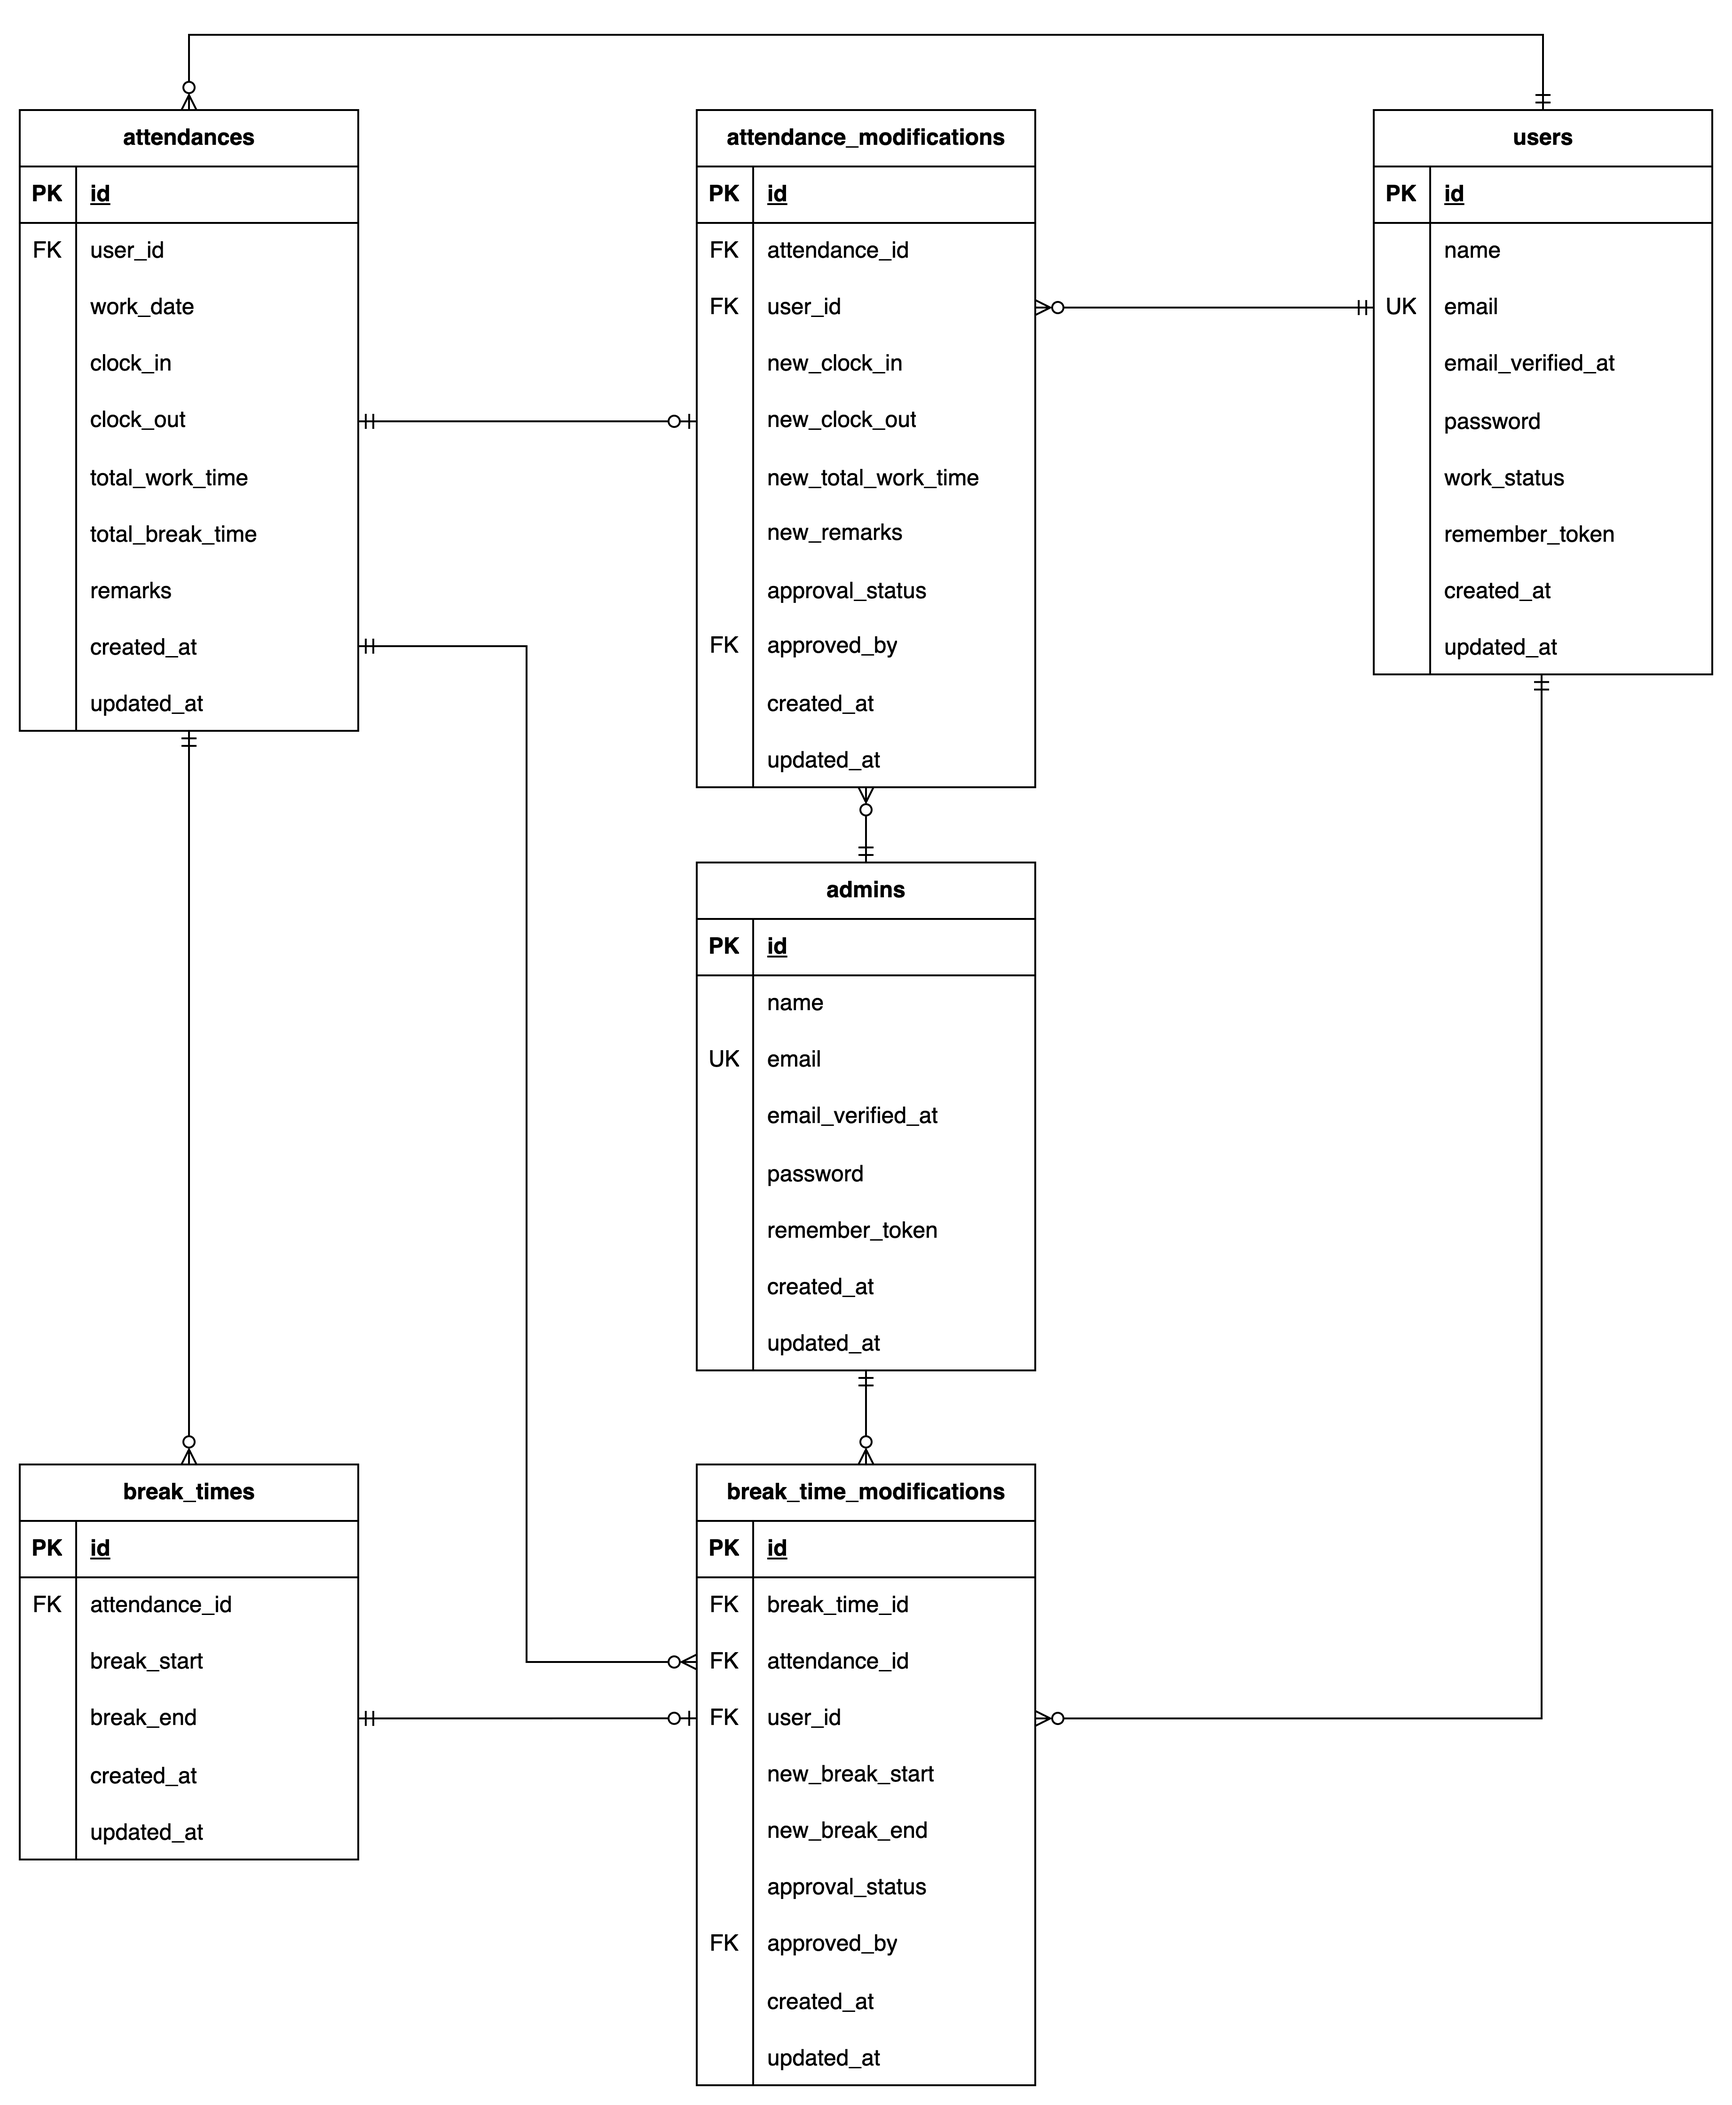
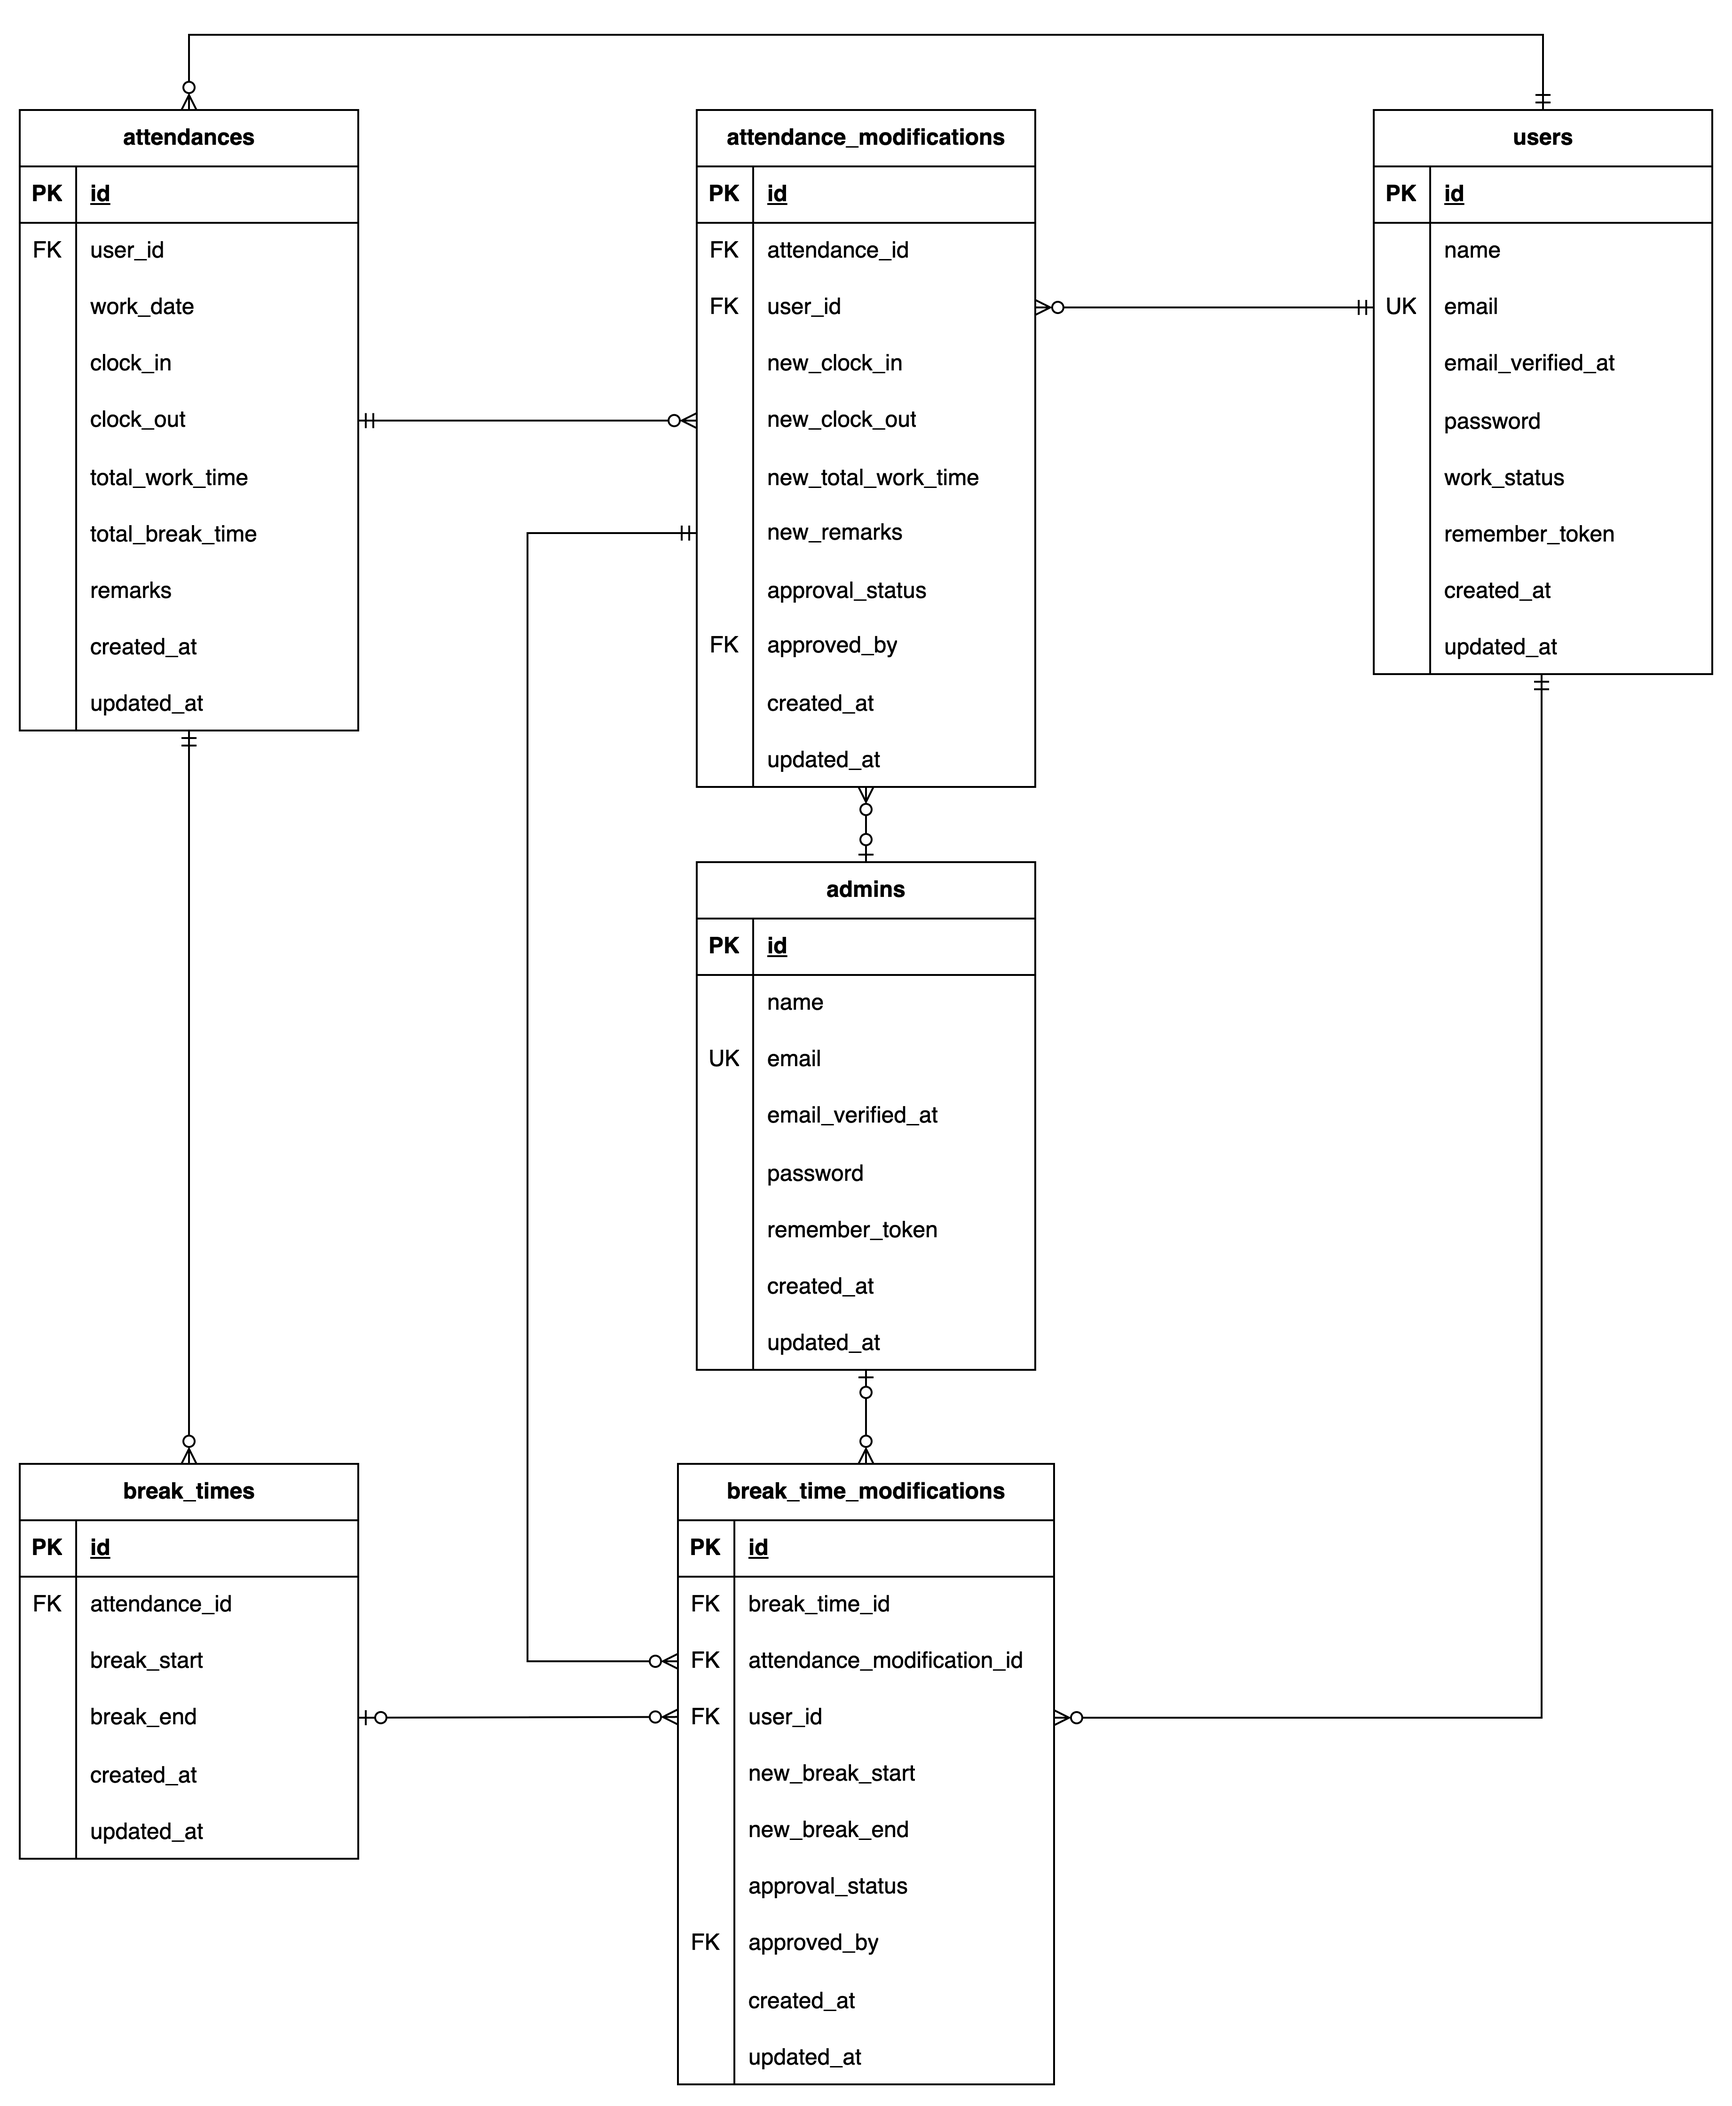
データベースを修正し、リレーションを更新

diff --git a/src/database/migrations/2025_03_20_110407_create_break_time_modifications_table.php b/src/database/migrations/2025_03_20_110407_create_break_time_modifications_table.php
@@ -16,7 +16,7 @@ class CreateBreakTimeModificationsTable extends Migration
         Schema::create('break_time_modifications', function (Blueprint $table) {
             $table->id();
             $table->foreignId('break_time_id')->nullable()->constrained()->cascadeOnDelete();
-            $table->foreignId('attendance_id')->constrained()->cascadeOnDelete();
+            $table->foreignId('attendance_modification_id')->constrained()->cascadeOnDelete();
             $table->foreignId('user_id')->constrained()->cascadeOnDelete();
             $table->time('new_break_start');
             $table->time('new_break_end');

diff --git a/src/database/factories/BreakTimeModificationFactory.php b/src/database/factories/BreakTimeModificationFactory.php
@@ -2,7 +2,7 @@
 
 namespace Database\Factories;
 
-use App\Models\Attendance;
+use App\Models\AttendanceModification;
 use App\Models\BreakTime;
 use App\Models\BreakTimeModification;
 use App\Models\User;
@@ -21,7 +21,7 @@ class BreakTimeModificationFactory extends Factory
     {
         return [
             'break_time_id' => BreakTime::factory(),
-            'attendance_id' => Attendance::factory(),
+            'attendance_modification_id' => AttendanceModification::factory(),
             'user_id' => User::factory(),
             'new_break_start' => '12:00:00',
             'new_break_end' => '13:00:00',

diff --git a/src/app/Models/BreakTimeModification.php b/src/app/Models/BreakTimeModification.php
@@ -12,7 +12,7 @@ class BreakTimeModification extends Model
 
     protected $fillable = [
         'break_time_id',
-        'attendance_id',
+        'attendance_modification_id',
         'user_id',
         'new_break_start',
         'new_break_end',
@@ -28,9 +28,9 @@ class BreakTimeModification extends Model
         return $this->belongsTo(BreakTime::class);
     }
 
-    public function attendance()
+    public function attendanceModification()
     {
-        return $this->belongsTo(Attendance::class);
+        return $this->belongsTo(AttendanceModification::class);
     }
 
     public function user()

diff --git a/src/app/Models/Attendance.php b/src/app/Models/Attendance.php
@@ -35,14 +35,9 @@ class Attendance extends Model
         return $this->hasMany(BreakTime::class);
     }
 
-    public function modification()
+    public function modifications()
     {
-        return $this->hasOne(AttendanceModification::class);
-    }
-
-    public function breakTimeModifications()
-    {
-        return $this->hasMany(BreakTimeModification::class);
+        return $this->hasMany(AttendanceModification::class);
     }
 
     public function getFormattedWorkDateAttribute()

diff --git a/src/app/Models/BreakTime.php b/src/app/Models/BreakTime.php
@@ -21,9 +21,9 @@ class BreakTime extends Model
         return $this->belongsTo(Attendance::class);
     }
 
-    public function modification()
+    public function modifications()
     {
-        return $this->hasOne(BreakTimeModification::class);
+        return $this->hasMany(BreakTimeModification::class);
     }
 
     public function getFormattedBreakStartAttribute()

diff --git a/src/app/Models/AttendanceModification.php b/src/app/Models/AttendanceModification.php
@@ -24,6 +24,11 @@ class AttendanceModification extends Model
     public const APPROVAL_PENDING = 0;
     public const APPROVAL_APPROVED = 1;
 
+    public function breakTimeModifications()
+    {
+        return $this->hasMany(BreakTimeModification::class);
+    }
+
     public function attendance()
     {
         return $this->belongsTo(Attendance::class);
